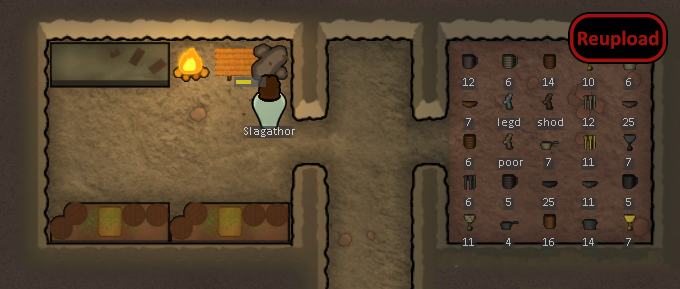
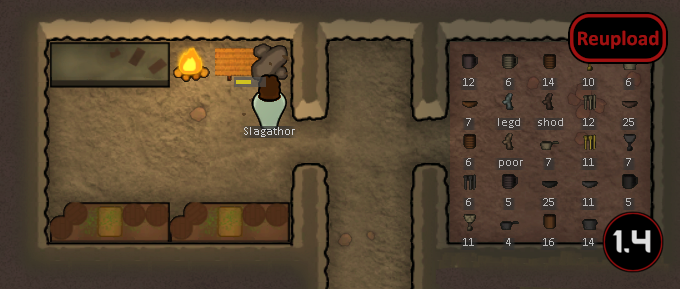
Fixed the trade-tags, again

Changed region(s): [[0.8647, 0.7163, 0.9882, 0.9654]]

diff --git a/README.md b/README.md
@@ -37,4 +37,5 @@ Figurine: Crafted using metallic, stony, or woody materials
 
 
 
+https://steamcommunity.com/sharedfiles/filedetails/changelog/2078506406]![Image](https://img.shields.io/github/v/release/emipa606/DwarvenCrafts?label=latest%20version&style=plastic&color=9f1111&labelColor=black)
 
